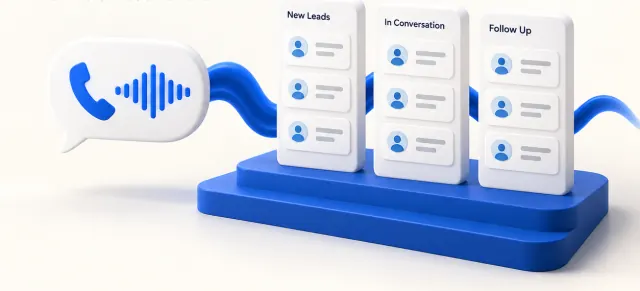
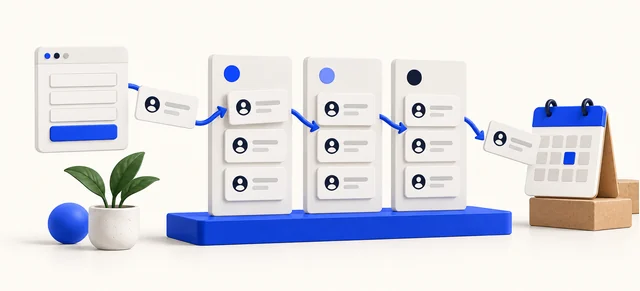
Refactor code structure for improved readability and maintainability

diff --git a/apps/orbitpi/src/lib/products.ts b/apps/orbitpi/src/lib/products.ts
@@ -9,7 +9,9 @@ export type ProductStatus = 'available' | 'coming-soon';
 
 export interface Faq { q: string; a: string }
 export interface Block { title: string; body: string }
-export interface Illustration { src: string; srcSmall: string; alt: string; width: number; height: number }
+export interface CardImage { src: string; srcSmall: string; width: number; height: number }
+// Wide workflow artwork on the product page; `card` is the 16:10 crop-free export for primary product cards (same alt).
+export interface Illustration { src: string; srcSmall: string; alt: string; width: number; height: number; card?: CardImage }
 
 export interface Product {
   slug: string;
@@ -58,9 +60,10 @@ export const PRODUCTS: Product[] = [
     image: {
       src: '/images/products/ai-document-ocr.webp',
       srcSmall: '/images/products/ai-document-ocr-640.webp',
-      alt: 'Stack of paper invoices passing through a scanning frame and coming out as a structured data card with vendor, invoice number, date, amount and GSTIN fields',
+      alt: 'Paper documents pass through a scanning frame into structured fields, with one field highlighted for human review.',
       width: 1254,
       height: 590,
+      card: { src: '/images/products/ai-document-ocr-card.webp', srcSmall: '/images/products/ai-document-ocr-card-400.webp', width: 800, height: 500 },
     },
     features: [
       { title: 'Intake from anywhere', body: 'Upload single files, batches or ZIP archives, send documents to email intake, or point DocAI at a watched folder. Duplicate files are caught by fingerprint.' },
@@ -120,9 +123,10 @@ export const PRODUCTS: Product[] = [
     image: {
       src: '/images/products/warehouse-inventory-management.webp',
       srcSmall: '/images/products/warehouse-inventory-management-640.webp',
-      alt: 'Cardboard cartons moving through a blue frame into an inventory card where every item has a tracked status',
+      alt: 'Labelled cartons, a barcode scanner and an inventory record illustrate tracked warehouse stock.',
       width: 1254,
       height: 590,
+      card: { src: '/images/products/warehouse-inventory-management-card.webp', srcSmall: '/images/products/warehouse-inventory-management-card-400.webp', width: 800, height: 500 },
     },
     features: [
       { title: 'Warehouses, zones and bins', body: 'Model each warehouse as zones and bins, generate racks in bulk, block bins when needed, and see stock on hand by exact position.' },
@@ -182,9 +186,10 @@ export const PRODUCTS: Product[] = [
     image: {
       src: '/images/products/lead-management-ai-voice-agent.webp',
       srcSmall: '/images/products/lead-management-ai-voice-agent-640.webp',
-      alt: 'A phone call bubble connected to a lead pipeline with New leads, In conversation and Follow up columns',
+      alt: 'An enquiry form feeds contact cards through a lead pipeline to a follow-up calendar.',
       width: 1254,
       height: 570,
+      card: { src: '/images/products/lead-management-ai-voice-agent-card.webp', srcSmall: '/images/products/lead-management-ai-voice-agent-card-400.webp', width: 800, height: 500 },
     },
     features: [
       { title: 'Capture with source tracking', body: 'A hosted web form records UTM tags, Google and Meta click IDs, referrer and landing page, blocks spam and removes duplicates. Walk-ins and imports follow the same rules.' },
@@ -245,6 +250,14 @@ export const PRODUCTS: Product[] = [
       'Assets keeps one register for laptops, machines, vehicles and equipment. Tag them with QR codes, assign and transfer them with approvals, schedule maintenance, track AMCs and warranties, and give auditors a fixed asset register they can trust.',
     summary: 'Tag, assign, maintain and verify every asset.',
     highlights: ['QR tags with a scan-to-report page', 'AMC, warranty and insurance alerts', 'Depreciation and CARO verification'],
+    image: {
+      src: '/images/products/asset-management-software.webp',
+      srcSmall: '/images/products/asset-management-software-640.webp',
+      alt: 'A tagged laptop and industrial motor connect to an asset register and scanning phone.',
+      width: 1254,
+      height: 590,
+      card: { src: '/images/products/asset-management-software-card.webp', srcSmall: '/images/products/asset-management-software-card-400.webp', width: 800, height: 500 },
+    },
     features: [
       { title: 'Fixed asset register', body: 'Record category, model, serial number, location, condition and status, with custom fields, parent and child components, and bulk import with an error report.' },
       { title: 'QR code tagging', body: 'Print QR label sheets in batches. Scanning opens the asset’s page, where anyone can report a problem without logging in.' },
@@ -300,6 +313,14 @@ export const PRODUCTS: Product[] = [
       'Ledger is double-entry accounting that is being designed around how Indian finance teams already work: familiar voucher types, a Day Book and trial balance, bank reconciliation, and export to Tally. It is not available yet.',
     summary: 'Double-entry accounting, now in development.',
     highlights: ['Voucher types, Day Book and trial balance', 'Bank statement import and reconciliation', 'Planned export to Tally Prime'],
+    image: {
+      src: '/images/products/accounting-software.webp',
+      srcSmall: '/images/products/accounting-software-640.webp',
+      alt: 'Concept illustration of a ledger, vouchers, calculator and balanced accounts; Ledger is coming soon.',
+      width: 1254,
+      height: 590,
+      card: { src: '/images/products/accounting-software-card.webp', srcSmall: '/images/products/accounting-software-card-400.webp', width: 800, height: 500 },
+    },
     features: [
       { title: 'Familiar voucher types', body: 'Sales, purchase, receipt, payment, contra and journal vouchers with gapless number series.' },
       { title: 'Day Book and trial balance', body: 'A Day Book that follows the Tally way of working, and a trial balance for any period.' },

diff --git a/apps/orbitpi/src/lib/industries.ts b/apps/orbitpi/src/lib/industries.ts
@@ -11,6 +11,7 @@ export interface Industry {
   metaDescription: string;
   h1: string;
   intro: string;
+  imageAlt: string; // shared alt for /images/industries/<slug>*.webp (hero, card and home explorer)
   products: string[]; // product slugs, most relevant first
   wins: string[];
   challenges: Block[];
@@ -27,6 +28,7 @@ export const INDUSTRIES: Industry[] = [
     metaDescription: 'OrbitPi helps Indian manufacturers track raw material by batch and bin, maintain plant machinery with AMC tracking and read supplier invoices with AI OCR.',
     h1: 'Inventory, asset and document software for manufacturers',
     intro: 'Track raw material by batch and bin, keep plant machinery serviced, and turn supplier invoices into clean data without retyping.',
+    imageAlt: 'A CNC machine, raw metal stock and tagged motor illustrate manufacturing inventory and maintenance.',
     products: ['warehouse-inventory-management', 'asset-management-software', 'ai-document-ocr'],
     wins: ['Raw material tracked by batch and bin', 'Machines serviced on schedule, AMCs tracked', 'Supplier invoices read into clean data'],
     challenges: [
@@ -55,6 +57,7 @@ export const INDUSTRIES: Industry[] = [
     metaDescription: 'OrbitPi gives Indian distributors and wholesalers live stock across warehouses, e-way bills and delivery challans, and routed follow-up of every dealer enquiry.',
     h1: 'Software for distributors and wholesalers',
     intro: 'Run stock across warehouses and branches, ship with the right GST paperwork, and follow up every dealer enquiry on time.',
+    imageAlt: 'Warehouse racks, pallets, delivery records and a van illustrate wholesale receiving and dispatch.',
     products: ['warehouse-inventory-management', 'lead-management-ai-voice-agent', 'ai-document-ocr'],
     wins: ['Live stock across warehouses and branches', 'E-way bills and delivery challans built in', 'Every dealer enquiry routed and followed up'],
     challenges: [
@@ -83,6 +86,7 @@ export const INDUSTRIES: Industry[] = [
     metaDescription: 'OrbitPi helps 3PL and logistics companies keep client-owned stock separate, track pallets by LPN and read delivery documents with AI OCR.',
     h1: 'Warehouse and document software for 3PL and logistics',
     intro: 'Hold stock for many clients in one warehouse, move whole pallets by scan, and turn delivery paperwork into data.',
+    imageAlt: 'Separate client pallets, a loading dock and delivery record illustrate third-party logistics.',
     products: ['warehouse-inventory-management', 'ai-document-ocr', 'asset-management-software'],
     wins: ['Separate stock per client owner', 'Pallet (LPN) tracking and scanning', 'Delivery documents read by AI'],
     challenges: [
@@ -111,6 +115,7 @@ export const INDUSTRIES: Industry[] = [
     metaDescription: 'OrbitPi helps retail and e-commerce businesses track stock by store and warehouse, reserve stock for orders and handle returns, RMAs and RTO with serials.',
     h1: 'Inventory software for retail and e-commerce',
     intro: 'Keep store and warehouse stock accurate, reserve stock for every open order, and process returns without losing track.',
+    imageAlt: 'Online product listings connect to packing, barcode scanning and organized stock.',
     products: ['warehouse-inventory-management', 'lead-management-ai-voice-agent', 'ai-document-ocr'],
     wins: ['Stock by store, warehouse and bin', 'Stock reserved for open orders', 'Returns and RTO handled with serials'],
     challenges: [
@@ -139,6 +144,7 @@ export const INDUSTRIES: Industry[] = [
     metaDescription: 'OrbitPi helps healthcare and pharma businesses track batches, expiry and recalls, and manage medical equipment with QR tags, AMCs and calibration records.',
     h1: 'Batch tracking and asset software for healthcare and pharma',
     intro: 'Track batches, expiry dates and recalls, and keep costly medical equipment serviced and calibrated.',
+    imageAlt: 'Medicine batches, an expiry calendar and tagged equipment illustrate pharmacy stock and maintenance.',
     products: ['warehouse-inventory-management', 'asset-management-software', 'ai-document-ocr'],
     wins: ['Batch, expiry and recall control', 'Equipment register with QR tags', 'Purchase documents captured by AI'],
     challenges: [
@@ -167,6 +173,7 @@ export const INDUSTRIES: Industry[] = [
     metaDescription: 'OrbitPi helps real estate teams capture every property enquiry with its campaign source, route it to the right rep, follow up on time and read KYC documents.',
     h1: 'Real estate lead management and document software',
     intro: 'Capture every property enquiry with its campaign source, get it to the right rep fast, and turn KYC paperwork into records.',
+    imageAlt: 'Property enquiries connect to a contact pipeline, appointment calendar and residential buildings.',
     products: ['lead-management-ai-voice-agent', 'ai-document-ocr'],
     wins: ['Every enquiry captured with its campaign', 'Leads routed to the right branch and rep', 'KYC documents read into records'],
     challenges: [
